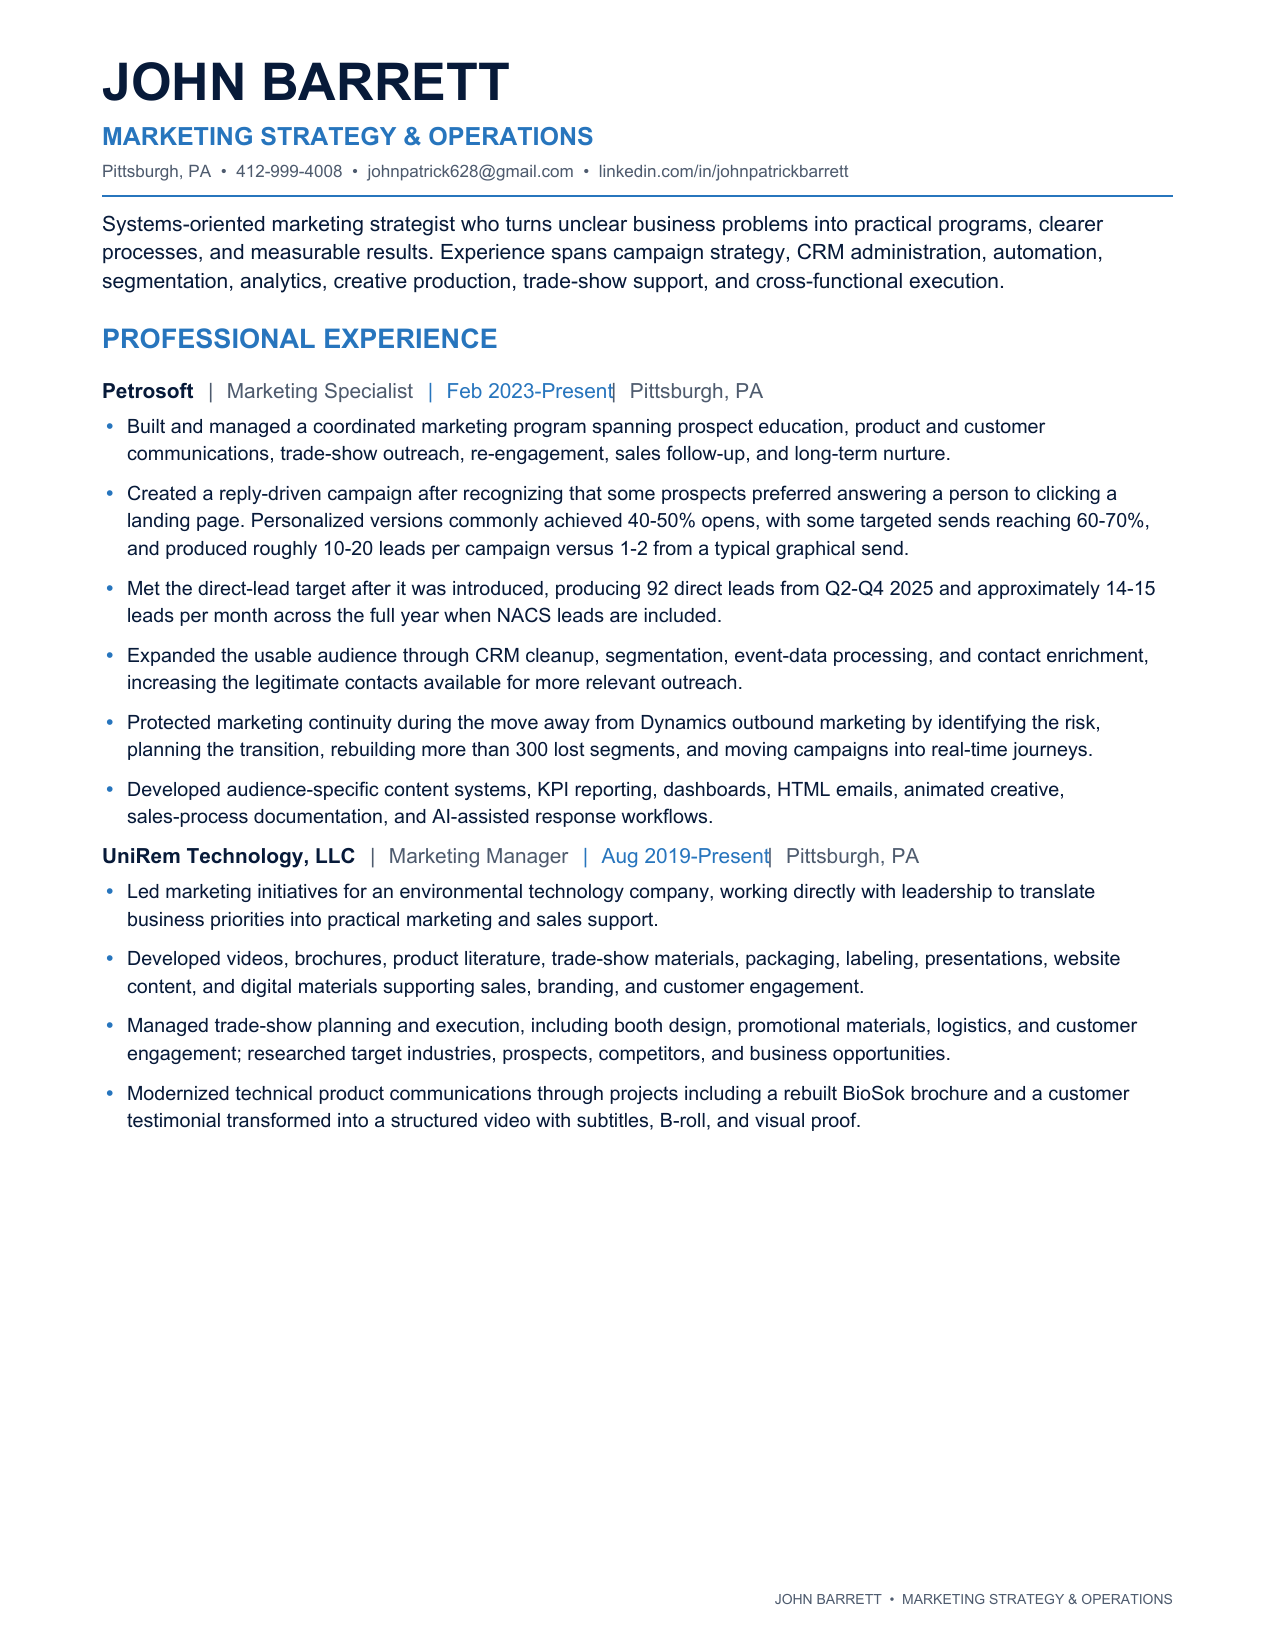
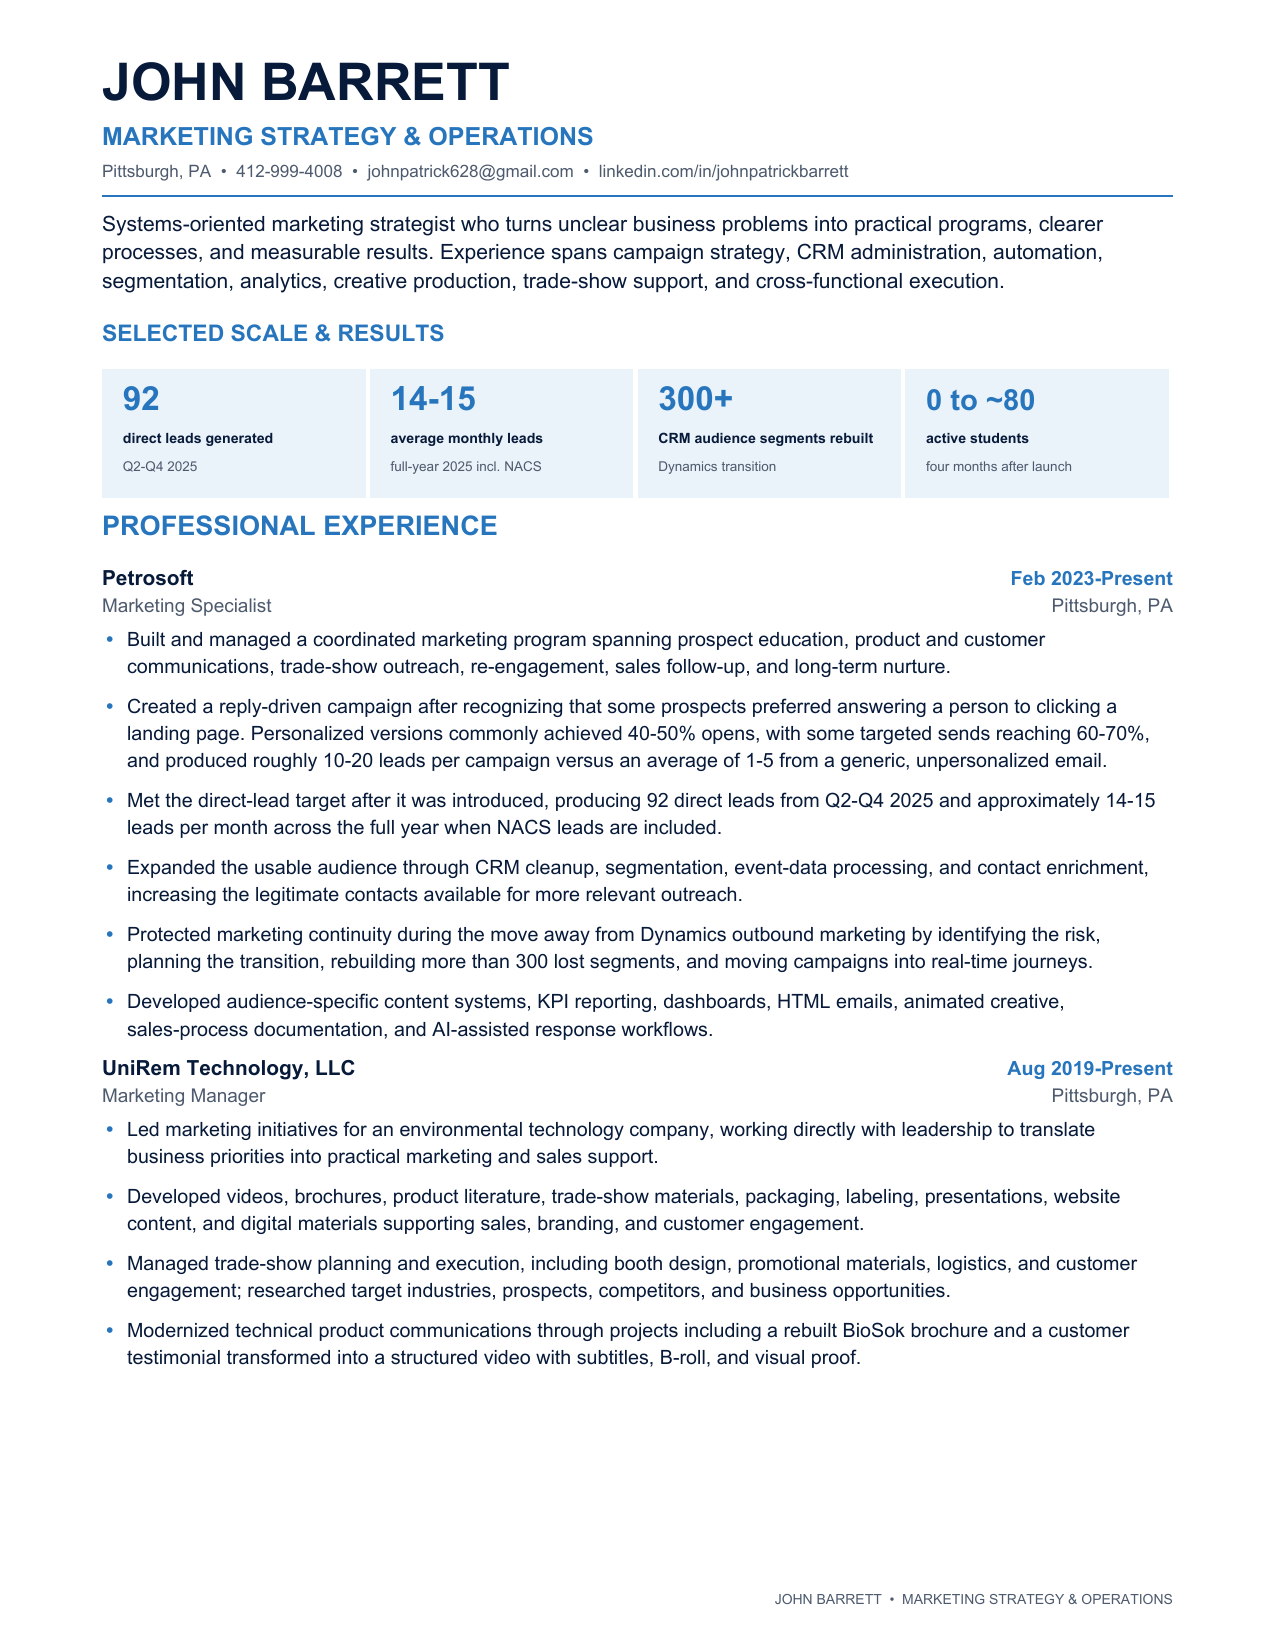
Finalize resume and campaign metrics

Changed region(s): [[0.0612, 0.1855, 0.9176, 0.8345], [0.8259, 0.8036, 0.8871, 0.8345]]

diff --git a/index.html b/index.html
@@ -196,7 +196,7 @@
         </div>
         <p class="comparison-context">Results from my Petrosoft campaign test</p>
         <div class="result-comparison">
-          <div><small>Traditional campaign</small><strong>~15%</strong><span>typical open rate</span><strong>1–2</strong><span>leads from a campaign</span></div>
+          <div><small>Generic unpersonalized email</small><strong>~15%</strong><span>typical open rate</span><strong>1–5</strong><span>average leads from a campaign</span></div>
           <div class="result-arrow">→</div>
           <div class="result-after"><small>Personalized reply-back campaign</small><strong>40–50%</strong><span>common open rate</span><strong>10–20</strong><span>leads from a campaign</span></div>
         </div>
@@ -217,7 +217,7 @@
         <div class="impact-scoreboard">
           <article><small>Year-to-date MQL growth</small><strong>+41%</strong><p>Email-generated qualified leads compared with the same period one year earlier.</p><div class="index-bars"><i style="--value:71%"><span>Prior year</span></i><i class="current" style="--value:100%"><span>Current year</span></i></div></article>
           <article><small>June lead generation</small><strong>3×</strong><p>Three times as many leads while sending approximately 14% fewer emails year over year.</p><div class="efficiency-mark"><span>Lower volume</span><b>→</b><span>Higher yield</span></div></article>
-          <article><small>Unique opens</small><strong>+9%</strong><p>More unique opens despite the smaller send volume, reflecting stronger targeting and subject-line performance.</p><div class="open-ring"><span>Audience<br>response</span></div></article>
+          <article><small>Personalized campaign opens</small><strong>15% → 40–50%</strong><p>Typical opens increased after I introduced personalized reply-back campaigns. Some targeted sends reached 60–70%.</p><div class="open-ring"><span>Audience<br>response</span></div></article>
           <article><small>Reply quality</small><strong>&gt;50%</strong><p>More than half of direct email replies during the measured month became marketing-qualified leads.</p><div class="reply-dots" aria-hidden="true"><i></i><i></i><i></i><i></i><i></i><i></i><i></i><i></i><i></i><i></i></div></article>
         </div>
         <div class="reach-story interactive-surface">

diff --git a/resume.html b/resume.html
@@ -29,11 +29,11 @@
   <main class="resume-main">
     <header class="resume-heading">
       <div><p class="eyebrow">Experience and qualifications</p><h1>Résumé</h1></div>
-      <a class="document-download" href="assets/documents/john-barrett-resume.pdf?v=20260802-ai-complete" download>Download PDF ↓</a>
+      <a class="document-download" href="assets/documents/john-barrett-resume.pdf?v=20260802-merged-skills" download>Download PDF ↓</a>
     </header>
     <div class="resume-pages" aria-label="John Barrett résumé">
-      <img src="assets/documents/john-barrett-resume-page-1.png?v=20260802-ai-complete" alt="John Barrett résumé page one: summary and recent professional experience" />
-      <img src="assets/documents/john-barrett-resume-page-2.png?v=20260802-ai-complete" alt="John Barrett résumé page two: additional experience, capabilities, complete education, languages, and technical skills" />
+      <img src="assets/documents/john-barrett-resume-page-1.png?v=20260802-merged-skills" alt="John Barrett résumé page one: summary, selected scale and results, and recent professional experience" />
+      <img src="assets/documents/john-barrett-resume-page-2.png?v=20260802-merged-skills" alt="John Barrett résumé page two: additional experience, combined capabilities and tools, education, and languages" />
     </div>
     <nav class="document-next" aria-label="Continue exploring">
       <a href="bio.html">← Read my professional bio</a>
